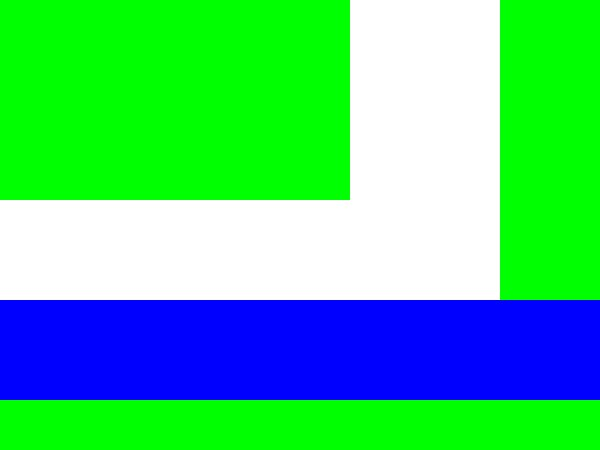
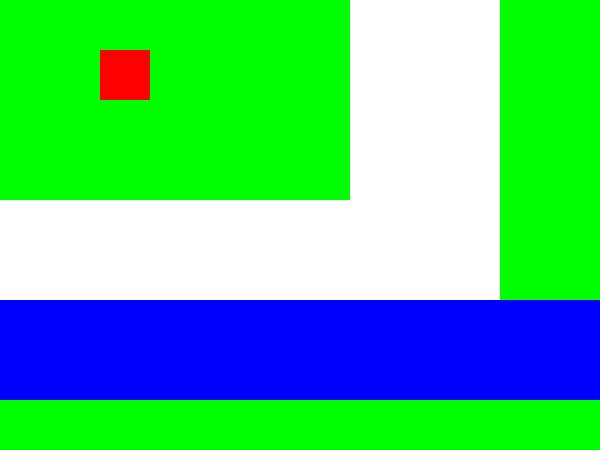
added water 'effects'

Changed region(s): [[0.15, 0.0933, 0.27, 0.2489]]

diff --git a/background.py b/background.py
@@ -4,6 +4,7 @@ import random
 import time
 from pygame import gfxdraw
 from pprint import pprint
+from random import randint
 pygame.init()
 pygame.display.set_caption('Master the dungeon')
 game_exit = False
@@ -11,8 +12,7 @@ GREEN=(0, 255, 0)
 WHITE=(255, 255, 255)
 BLUE=(0, 0, 255)
 RED=(255, 0, 0)
-verbose_flag = True
-
+BLACK=(0, 0, 0)
 
 
 level = '''
@@ -26,73 +26,134 @@ level = '''
 [~~~~~~~~~~~~]
 [~~~~~~~~~~~~]
 [~~~~~~~~~~~~]
-[            ]
+[       h    ]
 [            ]
 '''
-def verbose(text):
-  if verbose_flag:
-     pprint(text)
 
 
 
 class Level(object):
-   def __init__(self, level, biom="grass"):
+   def __init__(self, level, biom="grass", verbose=True):
       self.level_raw = level
+      self.verbose = verbose
       self.level = self.level_raw.replace("\n","").replace("[","").replace("]","")
       self.biom = biom
       self.scalar = 50
+      self.saved = False
       self.block_width = self.level_raw.find("]") - self.level_raw.find("[") - 1
       self.block_height = self.level_raw.count("[") if self.level_raw.count("[") == self.level_raw.count("]") else False
-      
-      verbose("Initializing screen")
+      self.log("Initializing screen")
       self.screen = pygame.display.set_mode((self.block_width  * self.scalar, self.block_height * self.scalar))
-      verbose("block_width : {}".format(self.block_width))
-      verbose("block_height : {}".format(self.block_height))
+      self.log("block_width : {}".format(self.block_width))
+      self.log("block_height : {}".format(self.block_height))
+      self.blocks = set()
+      self.water_blocks = set()
+      self.heading = pygame.font.SysFont(None, self.scalar)
+      self.sub_heading = pygame.font.SysFont(None, self.scalar/2)
+      self.para = pygame.font.SysFont(None, self.scalar/3)
+      self.clock = pygame.time.Clock()
+      self.old_clock = 0
+      self.update = 100
+      self.rotation = 0
+      self.addition = 0
       if not self.block_height:
          raise Exception("Line openers '[':{opens} don't equal line closes '[':{closes}".format(
             opens = self.level.count("["),
             closes = self.level.count("]")
             ))
       if biom == "grass":
-         verbose("Building grass biom {block_width} wide and {block_height} high".format(block_width = self.block_width, block_height=self.block_height))
+         self.log("Building grass biom {block_width} wide and {block_height} high".format(block_width = self.block_width, block_height=self.block_height))
          self.screen.fill(GREEN)  
+         self.filler=GREEN
  
+   def log(self, message):
+     if self.verbose:
+        pprint(message)
+  
    def draw_path(self, x , y):
       pygame.draw.rect(self.screen, WHITE, [x * self.scalar, y * self.scalar, self.scalar, self.scalar])
  
    def draw_water(self, x , y):
       pygame.draw.rect(self.screen, BLUE, [x * self.scalar, y * self.scalar, self.scalar, self.scalar])
+      self.water_blocks.add((x, y))
 
    def draw_house(self, x , y):
       pygame.draw.rect(self.screen, RED, [x * self.scalar, y * self.scalar, self.scalar, self.scalar])
+      self.blocks.add((x, y))
 
+   def message_to_screen(self,message, x, y):
+      screen_text = self.para.render(message, True, BLACK)
+      self.screen.blit(screen_text, (x * self.scalar ,y * self.scalar))
+   
+   def information_to_screen(self, message):
+      x = (self.block_width/20) * self.scalar
+      y = (self.block_height - self.block_height/5) * self.scalar
+      screen_text = self.sub_heading.render(message, True, BLACK)
+      self.screen.blit(screen_text, (x , y))
+  
+   def water_effect(self, x, y):
+      x = x * self.scalar
+      y = y * self.scalar
+      #pygame.draw.rect(self.screen, WHITE, [x + randint(0, self.scalar), y + randint(0, self.scalar), self.scalar/10, self.scalar/10]) 
+      for line in range(2):
+         deg = (self.rotation + 1) * 15
+         line = line * self.scalar/5
+         if deg > 180:
+            pygame.draw.arc(self.screen, WHITE, [x , line + y, self.scalar, self.scalar/2], math.radians(deg -30), math.radians(deg), 1 ) 
+         else:
+            pygame.draw.arc(self.screen, WHITE, [x, line + y, self.scalar, self.scalar/2], math.radians(170 - deg), math.radians(210 - deg ), 1 ) 
+   
+   def slow_clock(self):
+      time = pygame.time.get_ticks()
+      
+      if time > (self.update + self.old_clock):
+         self.rotation += 1
+         if self.rotation  > 23:
+            self.rotation = 0
+            self.addition +=1
+            print self.addition
+         self.old_clock = time
+      
+         
    def draw_level(self, save=False):
       x = 0
       y = 0
-      #verbose(self.level)
+      self.log(self.level)
+      self.screen.fill(GREEN)
       for pixel in self.level:
          if pixel in {"-","|"} :
             self.draw_path(x, y)    
-            #verbose("x:{x},\ny:{y},\npixel:{pixel}".format(x=x, y=y, pixel=pixel))
          elif pixel == "~":
             self.draw_water(x, y)
          elif pixel == "h":
             self.draw_house(x, y)
-           
          x += 1 
          if not x % self.block_width :
             y += 1
             x = 0 
-      if save:
+ 
+      if self.verbose:
+         for x, y in self.blocks:
+            self.message_to_screen("BLOCK", x, y)
+
+      for x, y in self.water_blocks:
+         if not self.verbose:
+            self.water_effect(x, y)
+         else:
+            self.message_to_screen("WATER", x, y)
+ 
+      if save and not self.saved:
          pygame.image.save(self.screen, 'current_background.jpg')
+         self.saved = True
             
    def loop(self):
-      #while not game_exit:
-      self.draw_level()
-      pygame.display.update()      
-         
+      while not game_exit:
+         self.draw_level()
+         pygame.display.update()      
+         self.slow_clock()
+         self.clock.tick(100)
+
 if __name__ == '__main__':
-   my_level = Level(level)
-   for i in range(10000000):
-      my_level.loop()
-   
+   my_level = Level(level, verbose=False )
+   my_level.loop()
+ 

diff --git a/test.py b/test.py
@@ -3,12 +3,11 @@ import unittest
 from background import Level
 from time import sleep
 pygame.init()
-
 test_level = pygame.image.load('assets/test.jpg')
 random_image = pygame.image.load('assets/random.jpg')
 level = '''
 [       |||  ]
-[       |||  ]
+[  h    |||  ]
 [       |||  ]
 [       |||  ]
 [-------|||  ]
@@ -17,14 +16,17 @@ level = '''
 [~~~~~~~~~~~~]
 [            ]
 '''
-current_level = Level(level)
+current_level = Level(level, verbose=False)
 block_size = current_level.scalar
 
 def update_delay():
    pygame.display.update()
    sleep(0.1)
 
-class TestStringMethods(unittest.TestCase):
+
+class TestBackgroundMethods(unittest.TestCase): 
+   def make_level(self, level):
+       return Level(level, verbose=False)
 
    def test_background_draws(self):
        '''Checks that background exports correct image compared to previously rendered image'''
@@ -61,10 +63,38 @@ class TestStringMethods(unittest.TestCase):
        '''Checks texture triggers'''
        for terrain in ['|', '-', '~', 'h', ' ']:
           level = '[{}]'.format(terrain)
-          new_level = Level(level)
+          new_level = self.make_level(level)
           new_level.draw_level()
           self.assertNotEqual(new_level.screen.get_at((0,0)), (0, 255, 0, 255)) if terrain != ' ' else self.assertEqual(new_level.screen.get_at((0,0)), (0, 255, 0, 255))
           update_delay()
+
+   def test_background_update(self):
+       '''Checks texture triggers'''
+       background_update = self.make_level(level)
+       for draw_function in background_update.draw_level(), background_update.draw_house(0,0), background_update.draw_level():
+          update_delay()
+       self.assertEqual(background_update.screen.get_at((0,0)), (0, 255, 0, 255))
+
+   def test_house_update(self):
+       '''Checks texture triggers'''
+       background_update = self.make_level(level)
+       for draw_function in background_update.draw_level(), background_update.draw_house(0,0):
+          update_delay()
+       self.assertNotEqual(background_update.screen.get_at((0,0)), (0, 255, 0, 255))
+
+   @unittest.expectedFailure
+   def test_no_left_bracket(self):
+      '''Checks badly formatted levels don't draw'''
+      l = self.make_level("]")
+
+   @unittest.expectedFailure
+   def test_no_right_bracket(self):
+      '''Checks badly formatted levels don't draw'''
+      l = self.make_level("[")
+
+   @unittest.expectedFailure
+   def test_brackets_misalign(self):
+      l = self.make_level("][")
 
 if __name__ == '__main__':
     unittest.main()
